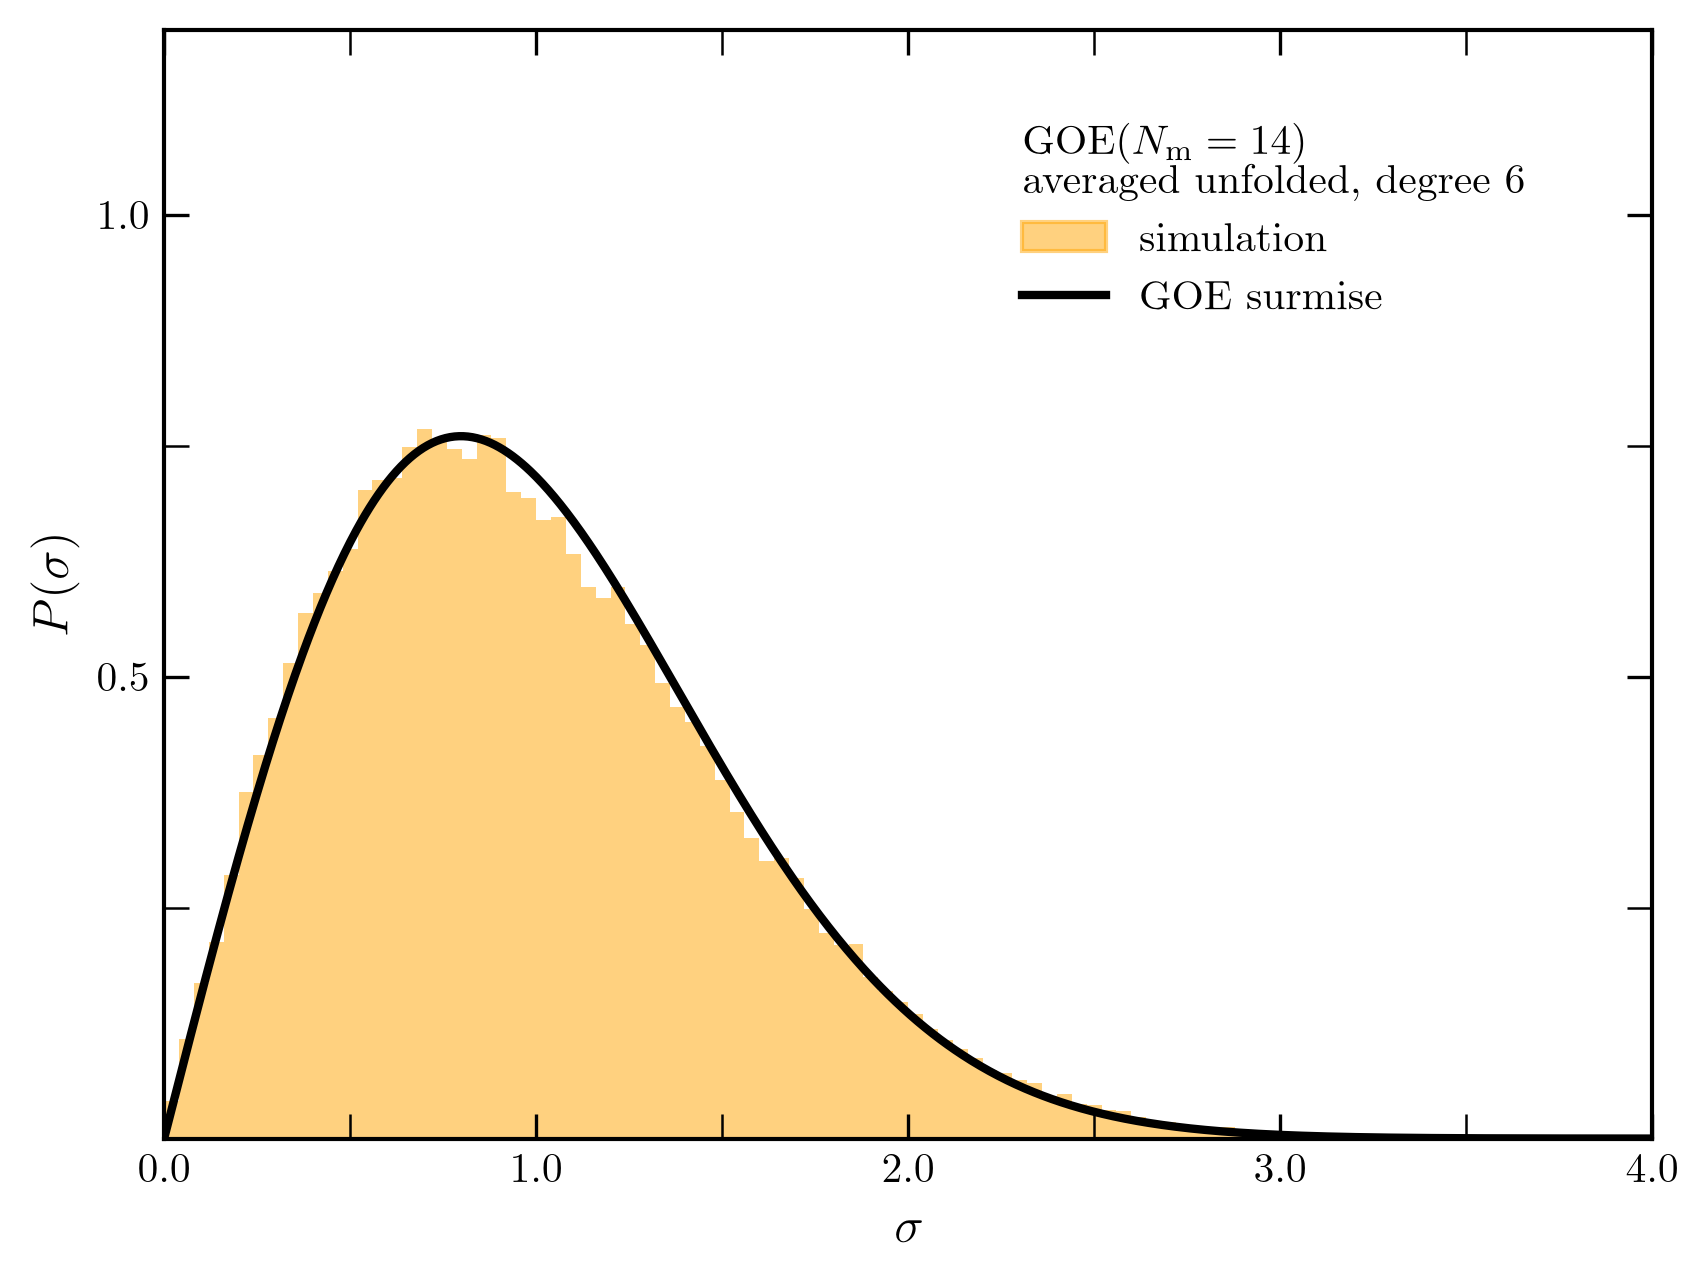
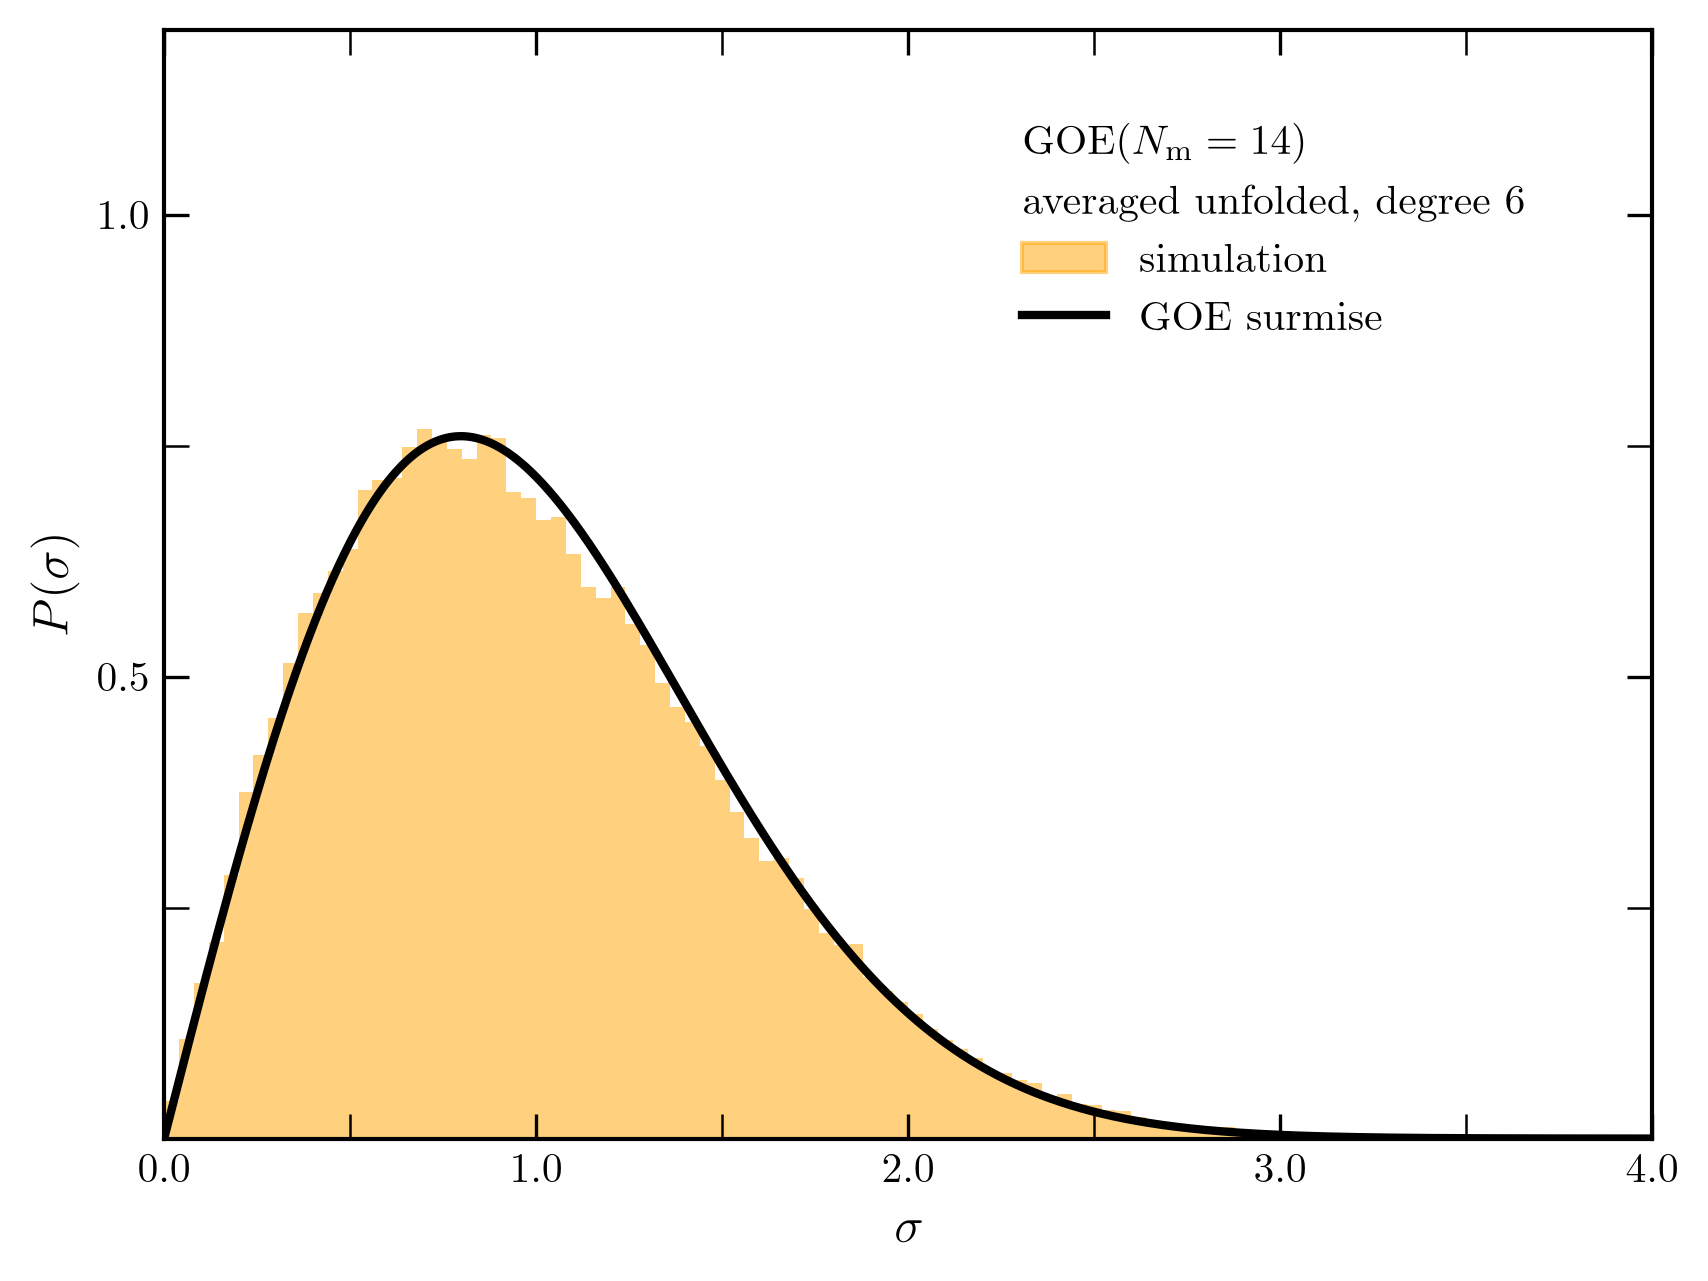
Update README for improved mathematical formatting, correct parameter values in examples, and clarify histogram support details.

Changed region(s): [[0.5896, 0.1249, 0.8999, 0.281]]

diff --git a/README.md b/README.md
@@ -79,18 +79,18 @@ Different statistics probe different parts of a spectrum:
 - A spectral form factor measures correlations in the time domain. For
   realization $r$, RMTPy accumulates
 
-  $$
+  ```math
   Z_r(t)=\frac{1}{N}\sum_{j=1}^{N}e^{-iE_{rj}t},
-  $$
+  ```
 
   and forms
 
-  $$
+  ```math
   K(t)=\frac{1}{R}\sum_{r=1}^{R}\lvert Z_r(t)\rvert^2,
   \qquad
   K_{\mathrm{conn}}(t)=K(t)-
   \left\lvert\frac{1}{R}\sum_{r=1}^{R}Z_r(t)\right\rvert^2.
-  $$
+  ```
 
 Here $R$ is the number of realizations and $N$ is the number of levels in
 the current sample.
@@ -112,7 +112,7 @@ $$
 $$
 
 The real part $E_n$ is a resonance center. The positive quantity
-$\Gamma_n=-2\operatorname{Im}\mathcal E_n$ is its total decay width.
+$\Gamma_n=-2\mathrm{Im}\,\mathcal E_n$ is its total decay width.
 Resolving the coupling in the eigenbasis of the closed Hamiltonian gives the
 partial width of each state into each channel. In units with $\hbar=1$, width
 sets an inverse lifetime, so a narrow resonance is long lived.
@@ -157,14 +157,14 @@ with the GOE Wigner surmise.*
 ![Two-dimensional histogram of complex GOE scattering poles with the average resonance width](assets/readme/goe-resonance-poles.png)
 
 *The raw complex-energy histogram from 1000 GOE compound realizations with
-$N_m=14$, $N_f=6$, and equal couplings $v_a=\sqrt{14}$. This choice gives
-$\binom{7}{6}=7$ open channels. The vertical coordinate is
+$N_m=14$, $N_f=2$, and equal couplings $v_a=\sqrt{14}$. This choice gives
+$\binom{7}{2}=21$ open channels. The vertical coordinate is
 $\log_{10}(\Gamma/E_0)$; the cyan curve is the energy-resolved average width.*
 
 ![Energy-dependent transmission coefficient for channel zero of a GOE compound](assets/readme/goe-transmission-coefficient.png)
 
 *The channel-zero transmission coefficient from 1000 GOE compound
-realizations with $N_m=14$, $N_f=6$, and $v_a=\sqrt{14}$ for all seven
+realizations with $N_m=14$, $N_f=2$, and $v_a=\sqrt{14}$ for all 21
 channels. The calculation averages $S_{00}(E)$ before taking the squared
 modulus.*
 
@@ -415,8 +415,8 @@ Time-delay probe energies are copied into a contiguous, read-only `float64`
 array. The input must be scalar or one-dimensional, finite, nonempty, and free
 of duplicate values.
 
-Transmission simulations use a fixed 100-point grid spanning the ensemble
-density's plotting range. `channel_indices` chooses the individual
+Transmission simulations use a fixed 100-point grid spanning 1.5 times the
+ensemble density's plotting range. `channel_indices` chooses the individual
 $T_a(E)$ curves retained for output. The accompanying Weisskopf estimate
 
 $$
@@ -493,7 +493,16 @@ declared histogram support.
 For `max_spectral_polynomial_degree=M`, coefficient histograms and averaged and
 variate groups are created for every degree from 1 through $M$, including odd
 degrees. Setting `M=0` leaves the raw and weight-unfolded groups and avoids the
-polynomial groups.
+polynomial groups and averaged-density calibration. For densities with a
+polynomial expansion, the degree-zero raw spectral and resonance plots still
+overlay the polynomial weight as a reference curve.
+
+Spectral and resonance coefficient samples must be finite. Each coefficient
+degree uses Freedman–Diaconis bin edges derived after all realizations have
+been accumulated, so the saved support retains every finite sample. The plots
+use a symmetric window around the central 1st–99th-percentile mass, and all
+coefficient plots in one spectral or resonance run share the widest such
+horizontal scale.
 
 Spectral statistics use `ensemble.spectral_density`. Resonance statistics use
 `compound.resonance_density` and fit the resonance centers. In an unfolded
@@ -588,9 +597,11 @@ an existing plot path is preserved.
   realized Hamiltonians remain dense for diagonalization.
 - Ensemble and compound streams retain one realization at a time. Histogram
   counts and form-factor moments accumulate in fixed-size buffers.
-- Histograms use fixed half-open supports. Samples outside those supports are
-  omitted from their counts. Inspect the relevant data class when tail
-  behavior matters.
+- Except for spectral and resonance coefficient histograms, histograms use
+  fixed half-open supports and omit samples outside them. Coefficient
+  histograms instead derive their support with the Freedman–Diaconis rule and
+  retain every finite sample; their central-mass plot window does not discard
+  stored tail counts.
 - Seeded runs reproduce the NumPy random trajectory within the same numerical
   software stack. BLAS/LAPACK, NumPy, SciPy, and Numba versions can affect
   bitwise results.
